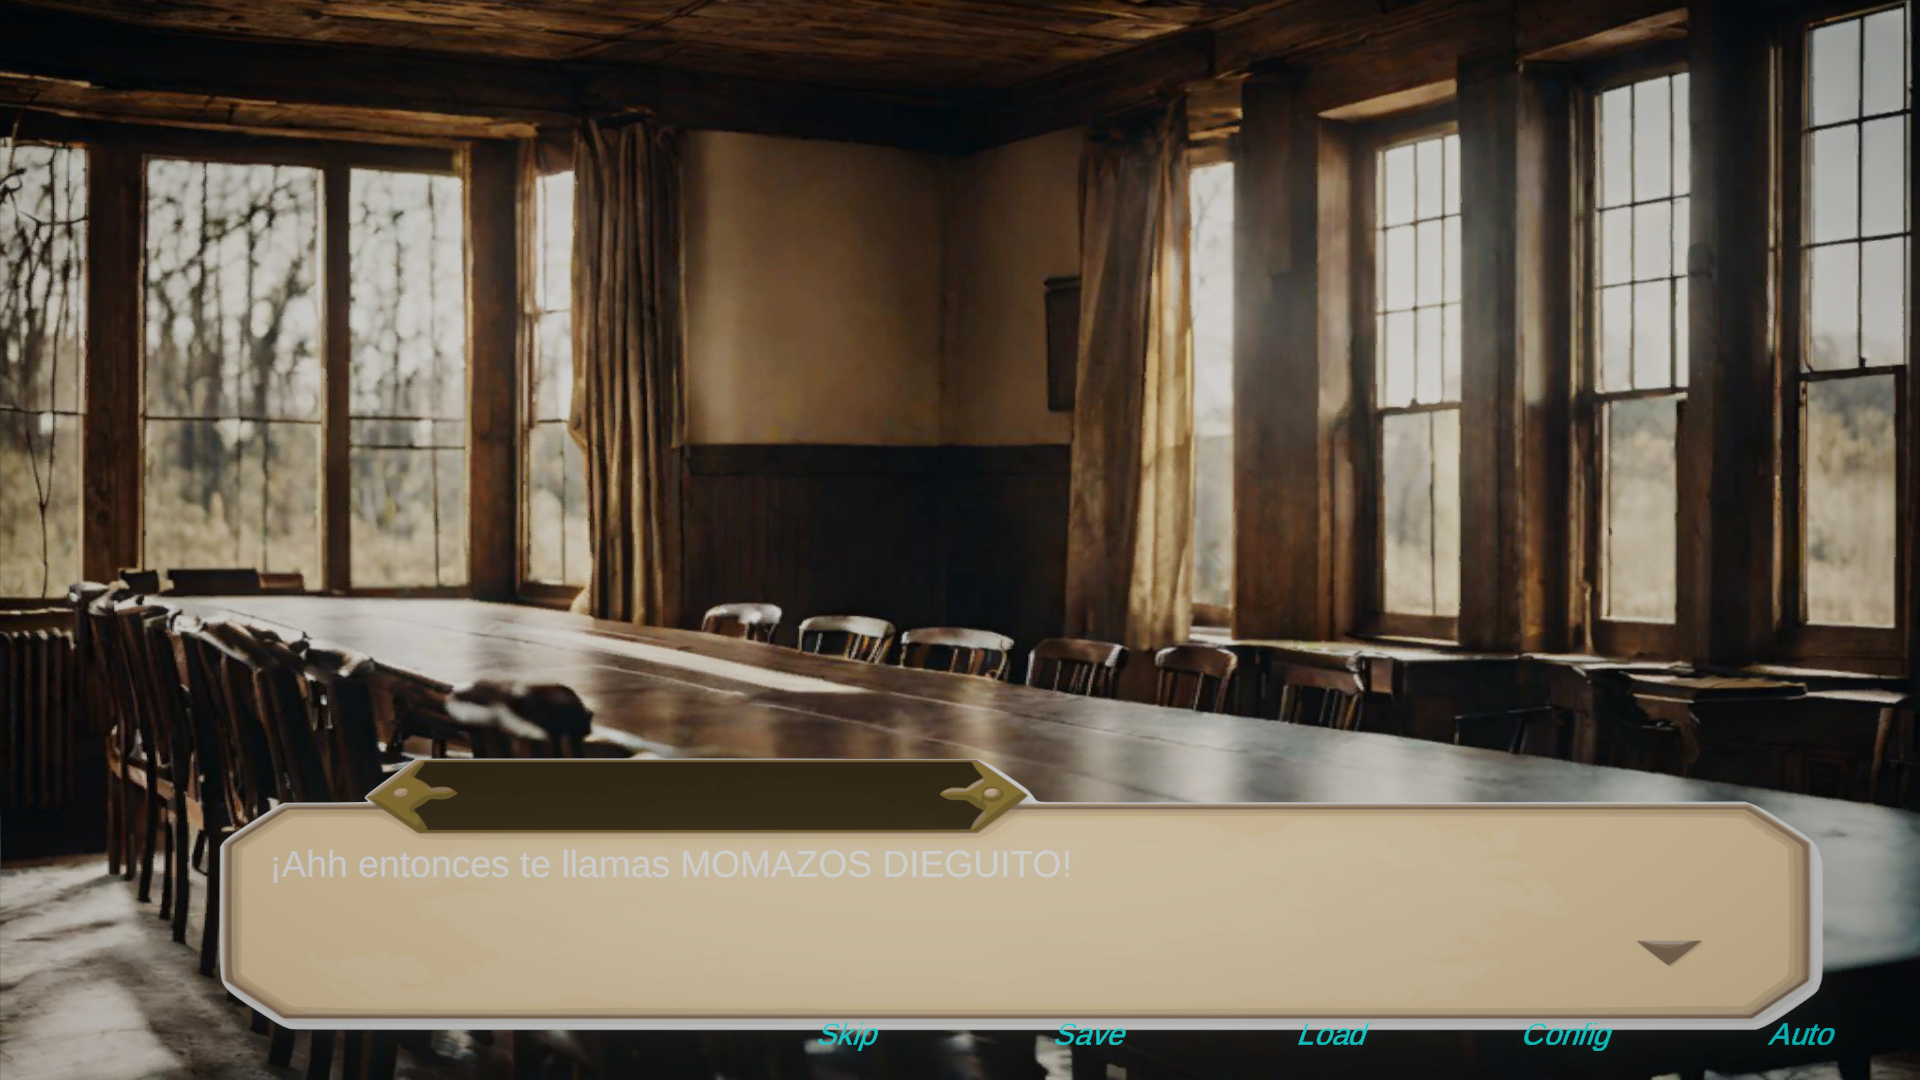
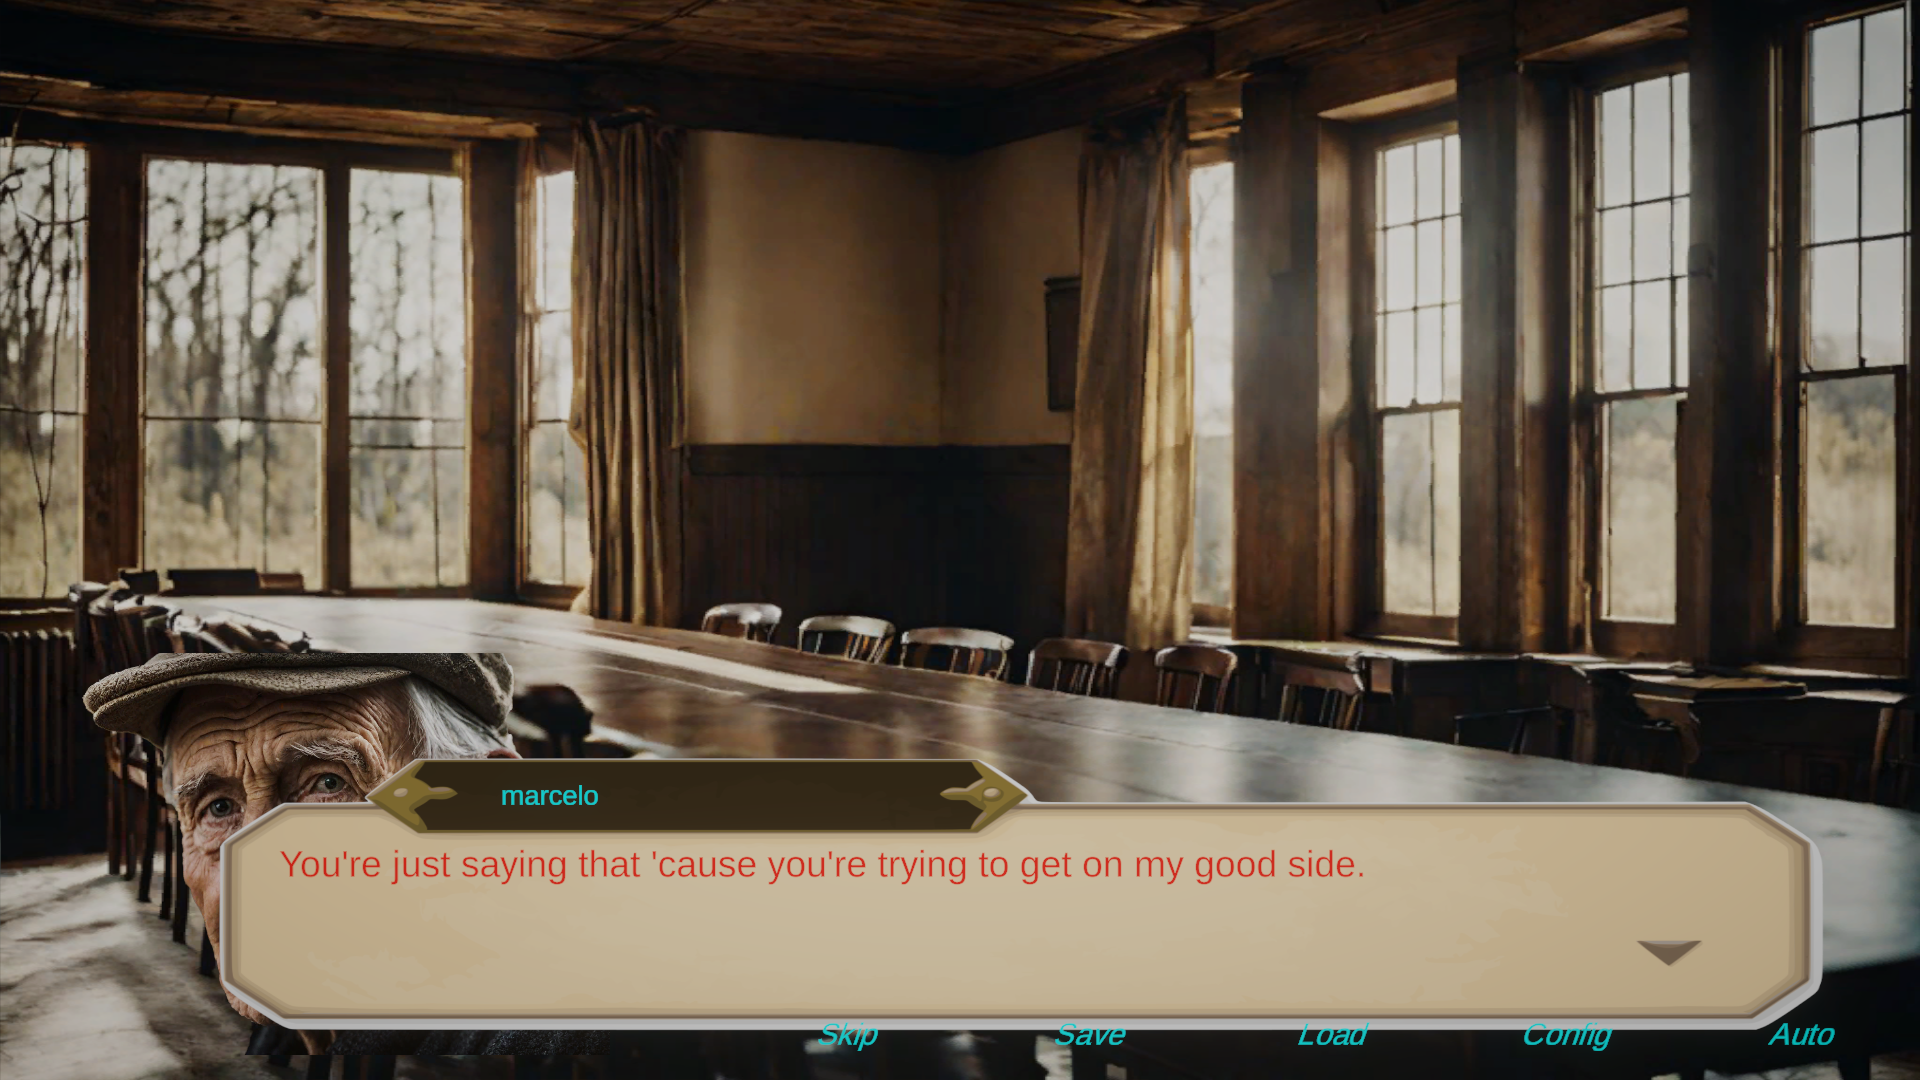
almost finished inworld thing

diff --git a/UnityVN-URP/Assets/Main/Scripts/Core/Commands/Database/Extensions/CommandCharacterExtension.cs b/UnityVN-URP/Assets/Main/Scripts/Core/Commands/Database/Extensions/CommandCharacterExtension.cs
@@ -8,161 +8,167 @@ using CHARACTERS;
 
 public class CommandCharacterExtension : CommandDBExtension
 {
-    //Activar personajes y eso.
-    private static string[] ENABLED_CHARACTER = new string[] { "-e", "-enabled" };
-    private static string[] INMEDIATE_APPEARING = new string[] { "-i", "-inmediate" };
-    //Posiciones.
-    private static string XPOS = "-x";
-    private static string YPOS = "-y";
-    private static string[] SPEED_PARAM = new string[] { "-s", "-speed" };
-    private static string SMOOTH_PARAM = "-smoothness";
+	//Activar personajes y eso.
+	private static string[] ENABLED_CHARACTER = new string[] { "-e", "-enabled" };
+	private static string[] INMEDIATE_APPEARING = new string[] { "-i", "-inmediate" };
+	//Posiciones.
+	private static string XPOS = "-x";
+	private static string YPOS = "-y";
+	private static string[] SPEED_PARAM = new string[] { "-s", "-speed" };
+	private static string SMOOTH_PARAM = "-smoothness";
 
-    new public static void Extend(CommandDB commandDB)
-    {
-        commandDB.AddCommand("show", new Func<string[], IEnumerator>(ShowAll));
-        commandDB.AddCommand("createcharacter", new Action<string[]>(CreateCharacter));
-        commandDB.AddCommand("movecharacter", new Func<string[], IEnumerator>(MoveCharacter));
+	new public static void Extend(CommandDB commandDB)
+	{
+		commandDB.AddCommand("show", new Func<string[], IEnumerator>(ShowAll));
+		commandDB.AddCommand("createcharacter", new Action<string[]>(CreateCharacter));
+		commandDB.AddCommand("movecharacter", new Func<string[], IEnumerator>(MoveCharacter));
 
-        //The technological plus.
-        commandDB.AddCommand("talkcharacter", new Func<string, IEnumerator>(TalkWithCharacter));
-    }
+		//The technological plus.
+		commandDB.AddCommand("talkcharacter", new Func<string, IEnumerator>(TalkWithCharacter));
+	}
 
-    private static void CreateCharacter(string[] data)
-    {
-        string charName = data[0];
-        bool enabled = false;
-        bool inmediate = false;
-        Character character = CharacterController.Instance.CreateCharacter(charName, enabled);
+	private static void CreateCharacter(string[] data)
+	{
+		string charName = data[0];
+		bool enabled = false;
+		bool inmediate = false;
+		Character character = CharacterController.Instance.CreateCharacter(charName, enabled);
 
-        var parameters = ConvertToParams(data);
-        parameters.TryGetValue(ENABLED_CHARACTER, out enabled, false);
-        parameters.TryGetValue(INMEDIATE_APPEARING, out inmediate, false);
+		var parameters = ConvertToParams(data);
+		parameters.TryGetValue(ENABLED_CHARACTER, out enabled, false);
+		parameters.TryGetValue(INMEDIATE_APPEARING, out inmediate, false);
 
-        Debug.Log($"Creating from command {charName}");
+		Debug.Log($"Creating from command {charName}");
 
-        if (!enabled) return;
+		if (!enabled) return;
 
-        if (inmediate)
-            character.IsVisible = true;
-        else
-            character.Show();
-    }
+		if (inmediate)
+			character.IsVisible = true;
+		else
+			character.Show();
+	}
 
-    //Trying.
-    private static IEnumerator MoveCharacter(string[] data)
-    {
-        string charName = data[0];
+	//Trying.
+	private static IEnumerator MoveCharacter(string[] data)
+	{
+		string charName = data[0];
 
-        Character character = CharacterController.Instance.GetCharacter(charName);
+		Character character = CharacterController.Instance.GetCharacter(charName);
 
-        if (character == null) yield break;
+		if (character == null) yield break;
 
-        float x = 0, y = 0;
-        float speed = 0;
-        bool smooth = false;
-        bool inmediate = false;
+		float x = 0, y = 0;
+		float speed = 0;
+		bool smooth = false;
+		bool inmediate = false;
 
-        var parameters = ConvertToParams(data);
-        //Obtener posicion en X.
-        parameters.TryGetValue(XPOS, out x);
-        //En Y.
-        parameters.TryGetValue(YPOS, out y);
-        //Ver si se mueve de inmediato.
-        parameters.TryGetValue(SPEED_PARAM, out speed, defaultVal: 1);
-        //Queremos suavidad?
-        parameters.TryGetValue(SMOOTH_PARAM, out smooth, false);
-        //Altoque?
-        parameters.TryGetValue(INMEDIATE_APPEARING, out inmediate, false);
+		var parameters = ConvertToParams(data);
+		//Obtener posicion en X.
+		parameters.TryGetValue(XPOS, out x);
+		//En Y.
+		parameters.TryGetValue(YPOS, out y);
+		//Ver si se mueve de inmediato.
+		parameters.TryGetValue(SPEED_PARAM, out speed, defaultVal: 1);
+		//Queremos suavidad?
+		parameters.TryGetValue(SMOOTH_PARAM, out smooth, false);
+		//Altoque?
+		parameters.TryGetValue(INMEDIATE_APPEARING, out inmediate, false);
 
-        Vector2 pos = new Vector2(x, y);
-        if (inmediate)
-            character.SetPos(pos);
-        else
-            CommandController.Instance.AddTerminationActionToActualProcess(() => { character.SetPos(pos); });
-        yield return character.MoveToPosition(pos, speed, smooth);
+		Vector2 pos = new Vector2(x, y);
+		if (inmediate)
+			character.SetPos(pos);
+		else
+			CommandController.Instance.AddTerminationActionToActualProcess(() => { character.SetPos(pos); });
+		yield return character.MoveToPosition(pos, speed, smooth);
 
-        //yield return null;
-    }
+		//yield return null;
+	}
 
-    private static IEnumerator ShowAll(string[] data)
-    {
-        List<Character> allCharacters = new List<Character>();
-        bool inmediate = false;
+	private static IEnumerator ShowAll(string[] data)
+	{
+		List<Character> allCharacters = new List<Character>();
+		bool inmediate = false;
 
-        foreach (string character in data)
-        {
-            Character currentCharacter = CharacterController.Instance.GetCharacter(character, create: false);
+		foreach (string character in data)
+		{
+			Character currentCharacter = CharacterController.Instance.GetCharacter(character, create: false);
 
-            if (currentCharacter != null)
-                allCharacters.Add(currentCharacter);
-        }
+			if (currentCharacter != null)
+				allCharacters.Add(currentCharacter);
+		}
 
-        if (allCharacters.Count == 0)
-        {
-            yield break;
-        }
+		if (allCharacters.Count == 0)
+		{
+			yield break;
+		}
 
-        var parameters = ConvertToParams(data);
-        parameters.TryGetValue(INMEDIATE_APPEARING, out inmediate, false);
+		var parameters = ConvertToParams(data);
+		parameters.TryGetValue(INMEDIATE_APPEARING, out inmediate, false);
 
-        foreach (Character character in allCharacters)
-        {
-            if (!inmediate)
-                character.Hide();
-            else
-                character.IsVisible = true;
-        }
+		foreach (Character character in allCharacters)
+		{
+			if (!inmediate)
+				character.Hide();
+			else
+				character.IsVisible = true;
+		}
 
-        if (!inmediate)
-        {
-            while (allCharacters.Any(c => c.IsHiding))
-            {
-                yield return null;
-            }
-        }
-    }
+		if (!inmediate)
+		{
+			while (allCharacters.Any(c => c.IsHiding))
+			{
+				yield return null;
+			}
+		}
+	}
 
-    private static IEnumerator TalkWithCharacter(string characterName)
-    {
-        characterName = characterName.ToLower();
-        PromptPanel panel = PromptPanel.Instance;
+	private const string STOP_ID = "stop";
+	private static IEnumerator TalkWithCharacter(string characterName)
+	{
+		characterName = characterName.ToLower();
+		PromptPanel panel = PromptPanel.Instance;
 
-        Debug.Log("WHY THIS SHIT IS NOT CALLING");
-        //Loads a new session.
-        AISessionManager sess = new AISessionManager(characterName);
-        CoroutinePrompt prompt = CoroutinePrompt.GetInstance();
-        prompt.InjectSession(sess);
+		//Loads a new session.
+		AISessionManager sess = new AISessionManager(characterName);
+		CoroutinePrompt prompt = CoroutinePrompt.GetInstance();
+		prompt.InjectSession(sess);
 
-        Character character = CharacterController.Instance.GetCharacter(characterName, true);
+		Character character = CharacterController.Instance.GetCharacter(characterName, true);
 
-        yield return character.Show();
+		yield return character.Show();
+		
+		//FIXME: Save those lines in the conversation.
+		while (true)
+		{
+			panel.Show("What do you want to ask me?");
 
-        
-        //FIXME: Save those lines in the conversation.
-        while (panel.LastInput.ToLower() != "stop")
-        {
-            panel.Show("What do you want to ask me?");
+			while (panel.IsWaitingOnUserInput)
+				yield return null;
 
-            while (panel.IsWaitingOnUserInput)
-                yield return null;
-            
-            yield return prompt.Talk(panel.LastInput);
+			if (panel.LastInput == STOP_ID)
+			{
+				yield break;
+			}
+		   
+			yield return prompt.Talk(panel.LastInput);
 
-            while (prompt.IsStillFetching)
-                yield return null;
+			while (prompt.IsStillFetching)
+				yield return null;
 
-            prompt.Interact(characterName);
+			prompt.Interact(characterName);
+			character.OnExpressionReceive(0, prompt.GetResponseExpression());
 
-            yield break;
-        }
+			//HACK: STOPS THE OTHER COROUTINES FOR THIS ONE.
+			yield break;
+		}
 
-        Debug.Log("<color=#008000>Spitting fax!!!!</color>");
-        Debug.Log($"STILL FETCHING??? {prompt.IsStillFetching}");
-        //yield return null;
-    }
+		Debug.Log("<color=#008000>Spitting fax!!!!</color>");
+		Debug.Log($"STILL FETCHING??? {prompt.IsStillFetching}");
+		//yield return null;
+	}
 
-    public static void HideAll(string[] data)
-    {
+	public static void HideAll(string[] data)
+	{
 
-    }
+	}
 }

diff --git a/UnityVN-URP/Assets/_TESTING/Scripts/GameSaveTesting.cs b/UnityVN-URP/Assets/_TESTING/Scripts/GameSaveTesting.cs
@@ -6,7 +6,7 @@ using VISUALNOVEL;
 public class GameSaveTesting : MonoBehaviour
 {
     public VNGameSave save;
-    public string characterName;
+    //public string characterName;
     // Start is called before the first frame update
     void Start()
     {
@@ -26,7 +26,7 @@ public class GameSaveTesting : MonoBehaviour
         }
         else if (Input.GetKeyDown(KeyCode.K))
         {
-            
+            /*   
             ConversationManager Controller = DialogController.Instance.convManager;
             Debug.Log($"<color=#104901>{Controller.conversation.GetCurrentLine()}</color>");
             
@@ -46,7 +46,7 @@ public class GameSaveTesting : MonoBehaviour
             {
                 string line = $"{characterName} \"{linesToAppend[i]}\"";
                 conversationLines.Insert(progress, line);
-            }
+            }*/
 
             //DialogController.Instance.dialogContainer.dialogText.text = linesToAppend[linesToAppend.Count - 1];
         }

diff --git a/UnityVN-URP/Assets/Main/Scripts/Core/Commands/CommandProcess.cs b/UnityVN-URP/Assets/Main/Scripts/Core/Commands/CommandProcess.cs
@@ -22,6 +22,7 @@ public class CommandProcess
     
     //Tener control de lo que se ejecuta en escena mientras se presionan teclas.
     public UnityEvent onTerminateAction;
+    public bool loopableProc = false;
 
     public CommandProcess(Guid ID, string processName, Delegate command, string[] args, CoroutineWrapper currentProcess, UnityEvent onTerminateAction = null)
     {

diff --git a/UnityVN-URP/Assets/Main/Scripts/Core/InworldAPI/CharacterInteraction.cs b/UnityVN-URP/Assets/Main/Scripts/Core/InworldAPI/CharacterInteraction.cs
@@ -76,4 +76,9 @@ class CharacterInteraction
             conversationLines.Insert(progress, line);
         }
     }
+
+    public string GetLastEmotion()
+    {
+        return lastEmotion ?? "normal";
+    }
 }
